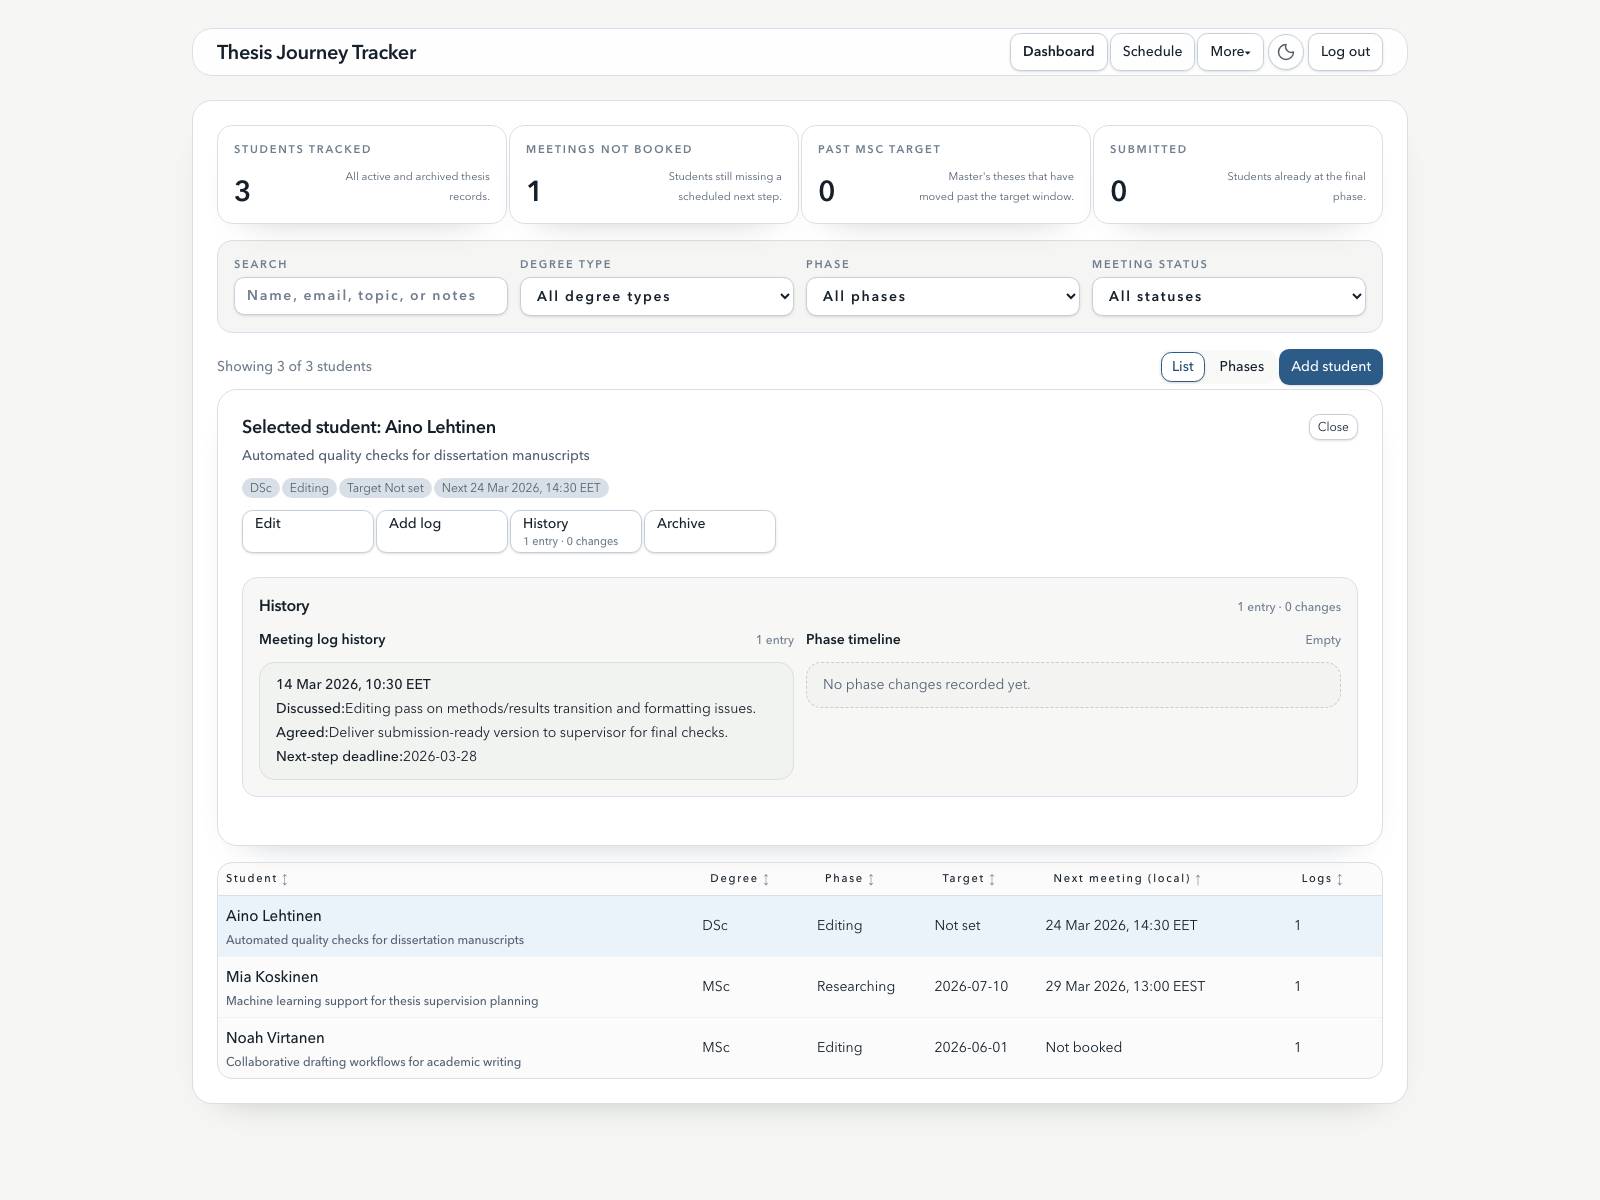
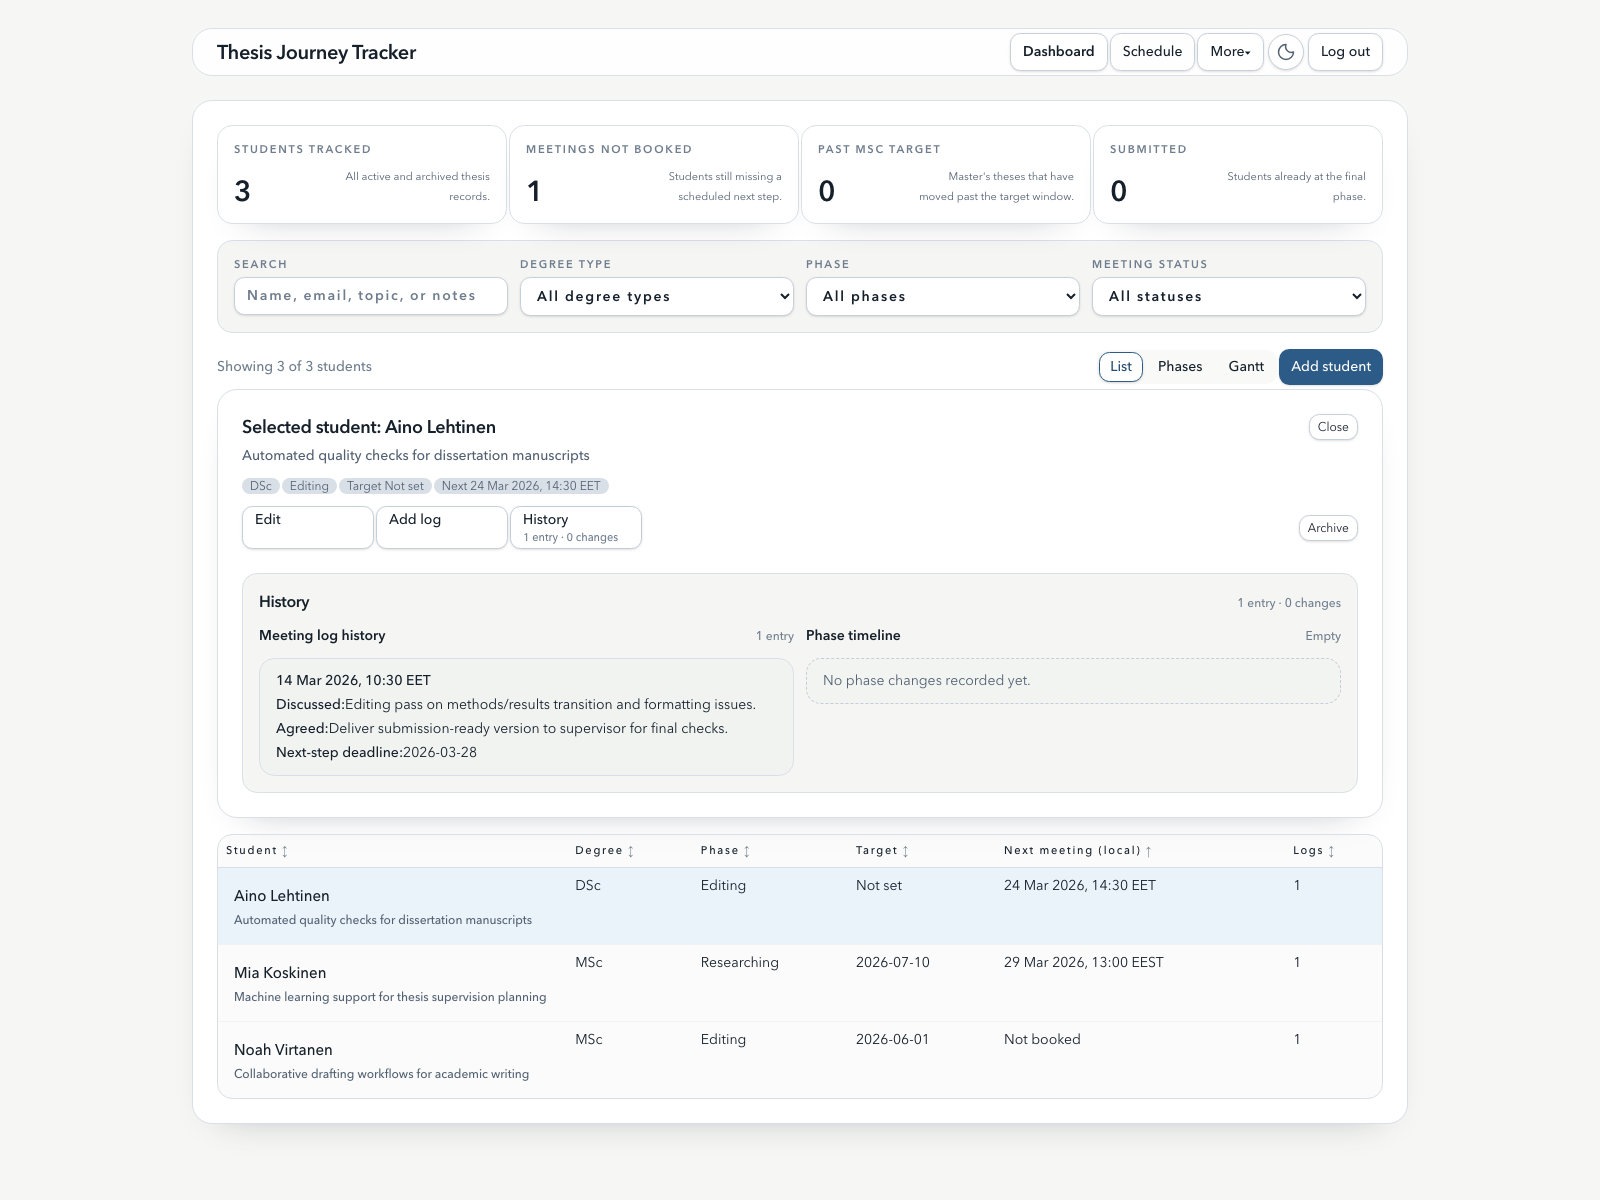
Update README screenshots

diff --git a/README.md b/README.md
@@ -8,11 +8,11 @@ The project is intentionally small and server-rendered, with a focused workflow 
 
 <table>
   <tr>
-    <td width="70%">
+    <td width="50%">
       <img src="./docs/screenshots/dashboard-overview.png" alt="Dashboard overview with filters plus list, phase, and Gantt views." />
     </td>
-    <td width="30%">
-      <img src="./docs/screenshots/student-panel.png" alt="Selected student area with editing controls, meeting log history, and phase audit." />
+    <td width="50%">
+      <img src="./docs/screenshots/dashboard-gantt-view.png" alt="Dashboard with the dedicated Gantt view enabled and a selected student panel open." />
     </td>
   </tr>
   <tr>
@@ -21,6 +21,17 @@ The project is intentionally small and server-rendered, with a focused workflow 
       Switch between list, phase, and Gantt views, scan upcoming supervision work, and keep the selected student workspace open while browsing the cohort.
     </td>
     <td>
+      <strong>Gantt workload view</strong><br />
+      Estimate advisor workload visually from thesis start dates and degree-based duration assumptions while keeping the selected student details in reach.
+    </td>
+  </tr>
+  <tr>
+    <td colspan="2" align="center">
+      <img src="./docs/screenshots/student-panel.png" alt="Selected student area with editing controls, meeting log history, and phase audit." />
+    </td>
+  </tr>
+  <tr>
+    <td colspan="2" align="center">
       <strong>Student workspace</strong><br />
       Review the current student state, add supervision notes, and inspect phase history without leaving the dashboard.
     </td>
